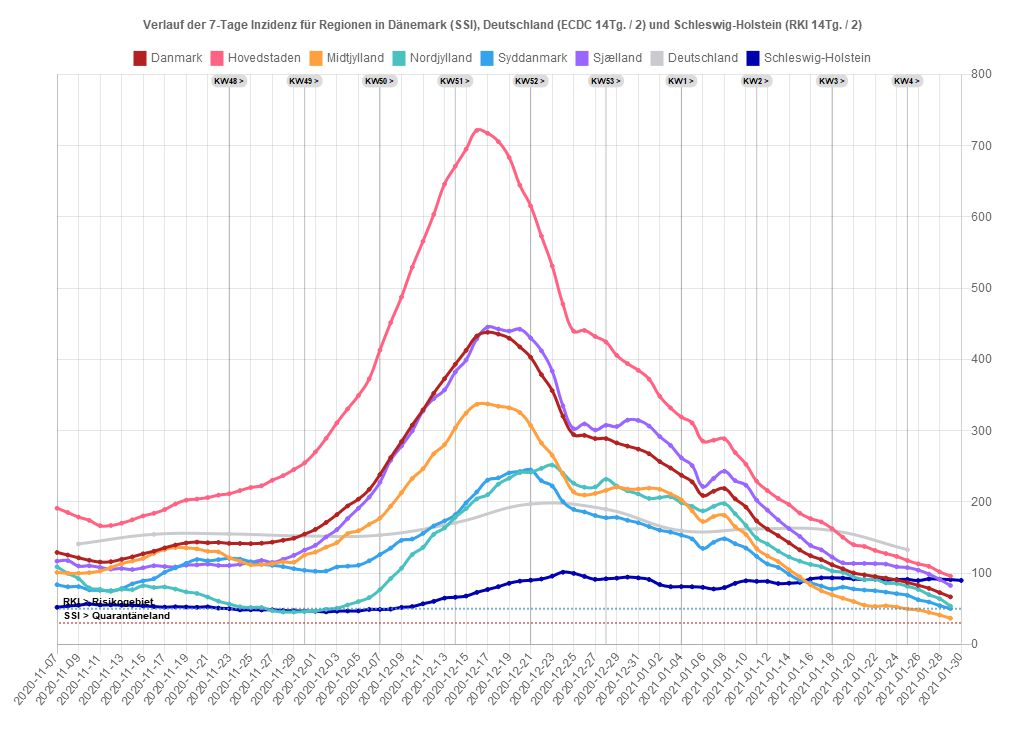
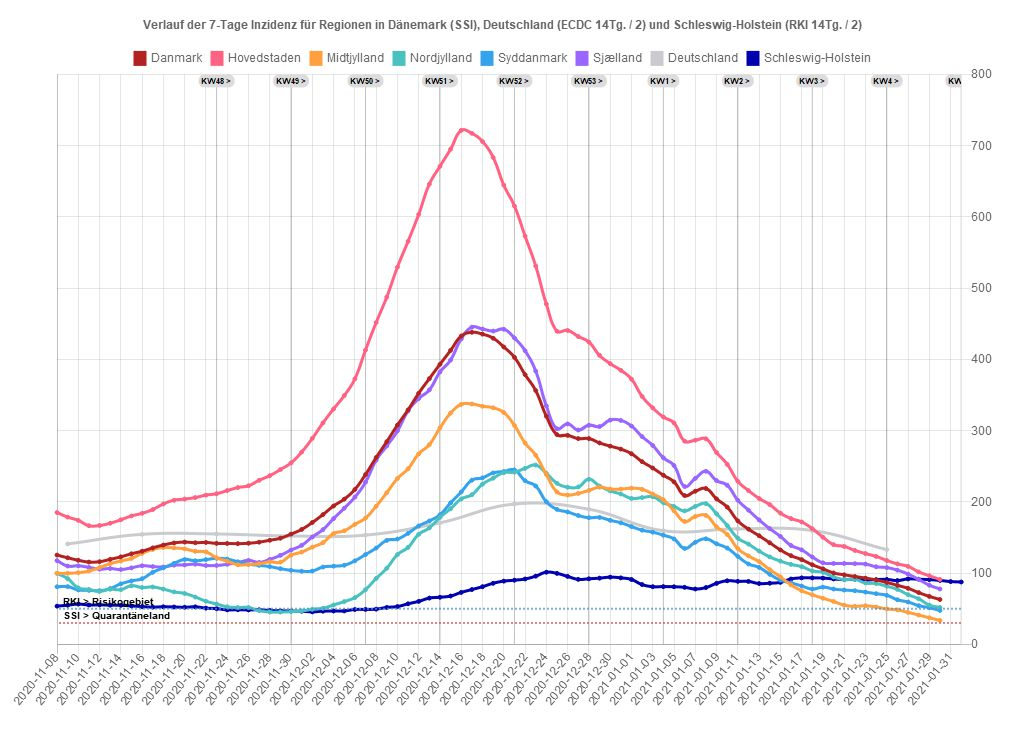
01.02.2021 17:30:18,42

Changed region(s): [[0.0312, 0.0931, 0.9375, 0.9622]]

diff --git a/dk/regioner.js b/dk/regioner.js
@@ -1,49 +1,49 @@
 var chdata={ type:'line',
 last_update: '2021-02-01',
-last_dk_data: '2021-01-29',
+last_dk_data: '2021-01-30',
 data: {
-labels: ["2020-11-07","2020-11-08","2020-11-09","2020-11-10","2020-11-11","2020-11-12","2020-11-13","2020-11-14","2020-11-15","2020-11-16","2020-11-17","2020-11-18","2020-11-19","2020-11-20","2020-11-21","2020-11-22","2020-11-23","2020-11-24","2020-11-25","2020-11-26","2020-11-27","2020-11-28","2020-11-29","2020-11-30","2020-12-01","2020-12-02","2020-12-03","2020-12-04","2020-12-05","2020-12-06","2020-12-07","2020-12-08","2020-12-09","2020-12-10","2020-12-11","2020-12-12","2020-12-13","2020-12-14","2020-12-15","2020-12-16","2020-12-17","2020-12-18","2020-12-19","2020-12-20","2020-12-21","2020-12-22","2020-12-23","2020-12-24","2020-12-25","2020-12-26","2020-12-27","2020-12-28","2020-12-29","2020-12-30","2020-12-31","2021-01-01","2021-01-02","2021-01-03","2021-01-04","2021-01-05","2021-01-06","2021-01-07","2021-01-08","2021-01-09","2021-01-10","2021-01-11","2021-01-12","2021-01-13","2021-01-14","2021-01-15","2021-01-16","2021-01-17","2021-01-18","2021-01-19","2021-01-20","2021-01-21","2021-01-22","2021-01-23","2021-01-24","2021-01-25","2021-01-26","2021-01-27","2021-01-28","2021-01-29","2021-01-30"],
+labels: ["2020-11-08","2020-11-09","2020-11-10","2020-11-11","2020-11-12","2020-11-13","2020-11-14","2020-11-15","2020-11-16","2020-11-17","2020-11-18","2020-11-19","2020-11-20","2020-11-21","2020-11-22","2020-11-23","2020-11-24","2020-11-25","2020-11-26","2020-11-27","2020-11-28","2020-11-29","2020-11-30","2020-12-01","2020-12-02","2020-12-03","2020-12-04","2020-12-05","2020-12-06","2020-12-07","2020-12-08","2020-12-09","2020-12-10","2020-12-11","2020-12-12","2020-12-13","2020-12-14","2020-12-15","2020-12-16","2020-12-17","2020-12-18","2020-12-19","2020-12-20","2020-12-21","2020-12-22","2020-12-23","2020-12-24","2020-12-25","2020-12-26","2020-12-27","2020-12-28","2020-12-29","2020-12-30","2020-12-31","2021-01-01","2021-01-02","2021-01-03","2021-01-04","2021-01-05","2021-01-06","2021-01-07","2021-01-08","2021-01-09","2021-01-10","2021-01-11","2021-01-12","2021-01-13","2021-01-14","2021-01-15","2021-01-16","2021-01-17","2021-01-18","2021-01-19","2021-01-20","2021-01-21","2021-01-22","2021-01-23","2021-01-24","2021-01-25","2021-01-26","2021-01-27","2021-01-28","2021-01-29","2021-01-30","2021-01-31","2021-02-01"],
 datasets: [
 {label: 'Danmark',
 backgroundColor: window.chartColors.firebrick,
 borderColor: window.chartColors.firebrick,
 fill: false,
-data: [129.0,125.3,121.5,118.0,115.5,116.0,119.3,122.8,127.1,130.7,135.4,139.4,142.3,143.5,142.6,143.0,141.7,141.6,141.3,141.9,143.4,146.1,148.9,154.7,161.3,171.0,182.1,194.2,203.8,217.4,238.3,262.2,284.5,307.7,329.1,352.4,372.9,393.1,412.6,432.7,438.0,435.4,429.7,417.4,402.8,378.6,356.2,320.2,294.3,293.3,288.8,288.8,282.7,278.2,274.0,267.5,256.4,247.5,237.4,228.0,208.8,214.9,218.7,204.2,192.6,173.3,161.7,152.4,142.5,132.5,124.4,118.9,111.7,106.0,100.2,97.6,95.2,93.0,90.3,86.8,82.8,78.6,72.6,66.6]},
+data: [125.3,121.5,118.0,115.5,116.0,119.3,122.8,127.1,130.7,135.4,139.4,142.3,143.5,142.6,143.0,141.7,141.6,141.3,141.9,143.4,146.1,148.9,154.7,161.3,171.0,182.1,194.2,203.8,217.4,238.3,262.2,284.5,307.7,329.1,352.4,372.9,393.1,412.6,432.7,438.0,435.4,429.7,417.4,402.8,378.6,356.2,320.2,294.3,293.3,288.8,288.8,282.7,278.2,274.0,267.5,256.4,247.5,237.4,228.0,208.8,214.9,218.7,204.2,192.6,173.3,161.7,152.4,142.5,132.5,124.4,118.9,111.7,106.0,100.2,97.6,95.2,93.0,90.3,86.8,82.8,78.6,72.6,67.3,62.9]},
 {label: 'Hovedstaden',
 backgroundColor: window.chartColors.red,
 borderColor: window.chartColors.red,
 fill: false,
-data: [191.1,185.0,178.6,174.0,166.5,166.8,170.0,174.8,180.2,183.9,189.2,197.0,202.3,203.9,206.0,209.4,211.4,215.8,220.1,222.6,230.3,236.7,245.3,254.7,269.9,289.1,310.8,330.4,349.1,372.6,413.0,451.6,487.5,529.4,565.7,603.5,645.9,671.0,695.0,721.4,717.3,705.7,683.5,644.5,615.3,573.1,531.1,477.6,439.5,440.6,432.1,424.3,405.6,394.0,384.7,372.2,348.1,331.9,319.1,310.7,285.2,286.5,288.5,269.2,252.7,228.9,215.8,204.8,196.1,184.2,176.5,171.8,162.3,150.4,139.9,137.4,131.8,127.4,123.4,117.7,112.9,109.4,101.7,95.8]},
+data: [185.0,178.6,174.0,166.5,166.8,170.0,174.8,180.2,183.9,189.2,197.0,202.3,203.9,206.0,209.4,211.4,215.8,220.1,222.6,230.3,236.7,245.3,254.7,269.9,289.1,310.8,330.4,349.1,372.6,413.0,451.6,487.5,529.4,565.7,603.5,645.9,671.0,695.0,721.4,717.3,705.7,683.5,644.5,615.3,573.1,531.1,477.6,439.5,440.6,432.1,424.3,405.6,394.0,384.7,372.2,348.1,331.9,319.1,310.7,285.2,286.5,288.5,269.2,252.7,228.9,215.8,204.8,196.1,184.2,176.5,171.8,162.3,150.4,139.9,137.4,131.8,127.4,123.4,117.7,112.9,109.4,101.7,96.2,91.1]},
 {label: 'Midtjylland',
 backgroundColor: window.chartColors.orange,
 borderColor: window.chartColors.orange,
 fill: false,
-data: [101.0,99.7,99.7,100.6,102.9,107.8,113.2,116.9,120.6,127.7,133.1,135.9,135.3,134.0,130.6,129.7,121.5,116.7,111.7,112.0,113.2,115.8,115.3,125.1,129.5,136.4,142.8,155.5,159.4,168.4,177.2,193.9,212.8,232.7,246.4,267.4,280.3,303.8,324.5,336.8,337.4,334.2,332.0,325.3,307.2,282.6,265.4,238.4,213.9,209.6,211.8,216.1,220.5,218.0,217.9,219.2,217.6,211.0,202.9,187.4,172.4,179.4,181.0,165.0,154.2,134.4,124.1,116.0,104.8,94.7,83.4,75.3,69.6,64.7,60.1,55.0,53.3,54.1,52.4,49.7,48.3,44.8,41.1,36.6]},
+data: [99.7,99.7,100.6,102.9,107.8,113.2,116.9,120.6,127.7,133.1,135.9,135.3,134.0,130.6,129.7,121.5,116.7,111.7,112.0,113.2,115.8,115.3,125.1,129.5,136.4,142.8,155.5,159.4,168.4,177.2,193.9,212.8,232.7,246.4,267.4,280.3,303.8,324.5,336.8,337.4,334.2,332.0,325.3,307.2,282.6,265.4,238.4,213.9,209.6,211.8,216.1,220.5,218.0,217.9,219.2,217.6,211.0,202.9,187.4,172.4,179.4,181.0,165.0,154.2,134.4,124.1,116.0,104.8,94.7,83.4,75.3,69.6,64.7,60.1,55.0,53.3,54.1,52.4,49.7,48.3,44.8,41.1,37.3,33.6]},
 {label: 'Nordjylland',
 backgroundColor: window.chartColors.green,
 borderColor: window.chartColors.green,
 fill: false,
-data: [108.8,99.7,92.2,79.3,77.1,74.4,77.3,76.8,82.2,79.8,80.5,77.5,73.6,71.4,66.4,60.5,56.6,52.7,51.7,51.7,47.3,45.4,45.3,45.9,46.8,49.2,50.7,55.3,60.0,65.6,76.8,92.4,106.8,125.9,136.1,154.4,163.4,178.3,190.4,204.1,210.0,224.8,233.2,241.0,241.7,247.0,251.6,240.0,226.1,220.5,220.9,231.7,222.2,215.4,211.0,204.8,206.0,207.1,198.8,193.6,187.3,193.6,197.5,183.2,166.8,149.0,140.7,130.9,122.7,116.8,112.2,109.0,103.1,101.0,94.6,90.9,91.2,86.1,85.3,81.5,77.1,69.7,63.9,53.7]},
+data: [99.7,92.2,79.3,77.1,74.4,77.3,76.8,82.2,79.8,80.5,77.5,73.6,71.4,66.4,60.5,56.6,52.7,51.7,51.7,47.3,45.4,45.3,45.9,46.8,49.2,50.7,55.3,60.0,65.6,76.8,92.4,106.8,125.9,136.1,154.4,163.4,178.3,190.4,204.1,210.0,224.8,233.2,241.0,241.7,247.0,251.6,240.0,226.1,220.5,220.9,231.7,222.2,215.4,211.0,204.8,206.0,207.1,198.8,193.6,187.3,193.6,197.5,183.2,166.8,149.0,140.7,130.9,122.7,116.8,112.2,109.0,103.1,101.0,94.6,90.9,91.2,86.1,85.3,81.5,77.1,69.7,63.9,55.1,51.7]},
 {label: 'Syddanmark',
 backgroundColor: window.chartColors.blue,
 borderColor: window.chartColors.blue,
 fill: false,
-data: [83.7,80.8,81.0,76.4,75.8,75.3,78.3,84.9,89.0,92.1,101.1,107.3,113.7,119.1,117.3,118.9,120.7,119.6,115.9,112.5,110.9,109.1,106.2,103.9,102.6,102.9,108.5,109.7,111.0,117.2,126.0,135.1,145.9,147.8,155.8,166.2,173.2,181.9,198.6,213.9,230.4,233.7,240.6,242.6,244.8,229.7,222.2,200.2,189.4,185.8,180.8,177.7,178.1,174.1,170.6,165.3,160.2,157.4,153.2,147.9,134.6,143.2,148.1,141.2,135.1,123.4,112.8,108.0,98.3,90.1,86.3,81.9,77.6,80.3,77.6,76.2,75.2,73.3,71.1,68.8,62.6,59.4,54.3,50.2]},
+data: [80.8,81.0,76.4,75.8,75.3,78.3,84.9,89.0,92.1,101.1,107.3,113.7,119.1,117.3,118.9,120.7,119.6,115.9,112.5,110.9,109.1,106.2,103.9,102.6,102.9,108.5,109.7,111.0,117.2,126.0,135.1,145.9,147.8,155.8,166.2,173.2,181.9,198.6,213.9,230.4,233.7,240.6,242.6,244.8,229.7,222.2,200.2,189.4,185.8,180.8,177.7,178.1,174.1,170.6,165.3,160.2,157.4,153.2,147.9,134.6,143.2,148.1,141.2,135.1,123.4,112.8,108.0,98.3,90.1,86.3,81.9,77.6,80.3,77.6,76.2,75.2,73.3,71.1,68.8,62.6,59.4,54.3,51.4,47.5]},
 {label: 'Sjælland',
 backgroundColor: window.chartColors.purple,
 borderColor: window.chartColors.purple,
 fill: false,
-data: [116.8,117.5,109.9,110.2,108.0,105.6,106.4,105.0,107.4,110.3,109.2,108.6,111.1,111.5,112.5,110.7,110.7,112.3,114.8,117.8,115.0,119.2,124.9,132.3,139.0,150.7,161.0,176.5,191.0,206.6,227.5,258.4,278.4,299.5,327.6,344.9,357.1,382.2,399.1,428.7,445.2,442.6,439.7,442.3,430.0,412.1,383.6,334.7,302.5,309.4,300.8,307.5,305.7,314.7,314.3,306.4,291.6,279.1,261.9,250.9,221.5,232.9,242.9,229.8,223.3,202.3,188.3,174.6,162.4,151.5,138.8,132.6,122.6,114.4,113.5,113.5,113.2,112.6,108.9,107.7,104.1,98.6,91.0,82.6]},
+data: [117.5,109.9,110.2,108.0,105.6,106.4,105.0,107.4,110.3,109.2,108.6,111.1,111.5,112.5,110.7,110.7,112.3,114.8,117.8,115.0,119.2,124.9,132.3,139.0,150.7,161.0,176.5,191.0,206.6,227.5,258.4,278.4,299.5,327.6,344.9,357.1,382.2,399.1,428.7,445.2,442.6,439.7,442.3,430.0,412.1,383.6,334.7,302.5,309.4,300.8,307.5,305.7,314.7,314.3,306.4,291.6,279.1,261.9,250.9,221.5,232.9,242.9,229.8,223.3,202.3,188.3,174.6,162.4,151.5,138.8,132.6,122.6,114.4,113.5,113.5,113.2,112.6,108.9,107.7,104.1,98.6,91.1,83.0,77.7]},
 {label: 'Deutschland',
 backgroundColor: window.chartColors.grey,
 borderColor: window.chartColors.grey,
 spanGaps: true,
 fill: false,
-data: [,,140.9,,,,,,,154.4,,,,,,,154.9,,,,,,,152.1,,,,,,,153.3,,,,,,,170.6,,,,,,,196.9,,,,,,,189.6,,,,,,,159.5,,,,,,,162.1,,,,,,,159.7,,,,,,,132.9,,,,,]},
+data: [,140.9,,,,,,,154.4,,,,,,,154.9,,,,,,,152.1,,,,,,,153.3,,,,,,,170.6,,,,,,,196.9,,,,,,,189.6,,,,,,,159.5,,,,,,,162.1,,,,,,,159.7,,,,,,,132.9,,,,,,,]},
 {label: 'Schleswig-Holstein',
 backgroundColor: '#0000AF',
 borderColor: '#0000AF',
 fill: false,
-data: [52.0,53.6,54.9,56.5,55.2,55.4,55.0,54.8,53.9,53.0,52.2,52.7,52.4,52.0,52.6,50.8,50.1,48.4,48.6,48.3,48.5,47.5,47.1,46.7,46.4,45.6,46.5,46.8,46.9,48.9,49.0,49.4,51.8,53.0,56.9,60.3,64.9,66.1,67.8,72.9,76.9,80.9,85.7,88.7,90.0,91.7,95.7,101.2,99.6,95.3,91.2,92.0,92.9,94.3,93.3,91.0,83.9,80.9,81.0,80.8,80.0,77.7,79.7,85.6,89.2,88.4,88.3,85.3,85.8,87.0,91.7,93.3,93.3,93.0,91.8,90.9,91.3,90.2,90.9,91.1,89.5,91.8,91.4,90.8,89.7]}
+data: [53.6,54.9,56.5,55.2,55.4,55.0,54.8,53.9,53.0,52.2,52.7,52.4,52.0,52.6,50.8,50.1,48.4,48.6,48.3,48.5,47.5,47.1,46.7,46.4,45.6,46.5,46.8,46.9,48.9,49.0,49.4,51.8,53.0,56.9,60.3,64.9,66.1,67.8,72.9,76.9,80.9,85.7,88.7,90.0,91.7,95.7,101.2,99.6,95.3,91.2,92.0,92.9,94.3,93.3,91.0,83.9,80.9,81.0,80.8,80.0,77.7,79.7,85.6,89.2,88.4,88.3,85.3,85.8,87.0,91.7,93.3,93.3,93.0,91.8,90.9,91.3,90.2,90.9,91.1,89.5,91.8,91.4,90.8,89.7,88.1,87.5]}
 ]}};
 

diff --git a/sh/index_sh_alter.html b/sh/index_sh_alter.html
@@ -5,7 +5,7 @@
 <meta property="og:image" content="index_sh_alter.jpg" />
 <meta property="og:type" content="website" />
 <meta property="og:locale" content="de_DE" />
-<meta property="og:updated_time" content="2021-02-01T17:02:08+01:00" />
+<meta property="og:updated_time" content="2021-02-01T17:30:18+01:00" />
 <title>Altersverteilung der COVID-19-Fälle in Schleswig-Holstein</title>
 <link rel="stylesheet" href="../css/style.css" media="screen" type="text/css">
 <link rel="stylesheet" media="screen" href="Chart.min.css"> 

diff --git a/sh/index_pi_alter.html b/sh/index_pi_alter.html
@@ -5,7 +5,7 @@
 <meta property="og:image" content="index_pi_alter.jpg" />
 <meta property="og:type" content="website" />
 <meta property="og:locale" content="de_DE" />
-<meta property="og:updated_time" content="2021-02-01T17:02:08+01:00" />
+<meta property="og:updated_time" content="2021-02-01T17:30:18+01:00" />
 <title>Altersverteilung der COVID-19-Fälle im Kreis Pinneberg</title>
 <link rel="stylesheet" href="../css/style.css" media="screen" type="text/css">
 <link rel="stylesheet" media="screen" href="Chart.min.css"> 

diff --git a/sh/index.html b/sh/index.html
@@ -5,7 +5,7 @@
 <meta property="og:image" content="index.jpg" />
 <meta property="og:type" content="website" />
 <meta property="og:locale" content="de_DE" />
-<meta property="og:updated_time" content="2021-02-01T17:02:08+01:00" />
+<meta property="og:updated_time" content="2021-02-01T17:30:18+01:00" />
 <title>COVID-19-Fälle im Kreis Pinneberg</title>
 <link rel="stylesheet" href="../css/style.css" media="screen" type="text/css">
 <link rel="stylesheet" media="screen" href="Chart.min.css"> 
